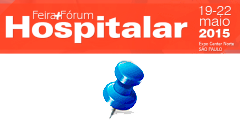
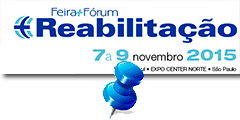
Versão 1.0.1
Incluido formulário de contato

diff --git a/index1.html b/index1.html
@@ -214,12 +214,6 @@ $(window).load(function() {
       <form action="">
       <input type="text" x-webkit-speech>
       </form>
-                  <div id="compassContainer">
-      <div id="imagem">
-          <img src="imagens/logotipo_150.png" id="busca"/>
-      </div>
-      <img src="imagens/busca.png" name="icone" id="icone"/>
-    </div>
     <div id="compassContainer">
       <div id="imagem">
           <img src="imagens/seta-direcao.png" id="compass"/>
@@ -252,12 +246,47 @@ $(window).load(function() {
   <div data-role="footer" data-theme="c">
 <div data-role="navbar">
 		<ul>
-			<li class="ui-btn-active ui-state-persist"><a href="#page" data-icon="grid" class="ui-btn-active">Inicio</a></li>
-			<li><a href="#page3" data-icon="gear">Redes sociais</a></li>
-			<li><a href="http://www.scortecci.com.br/formulario.php?id=304" data-icon="star">Contato</a></li>
+			<li class="ui-btn-active ui-state-persist"><a href="index.html" data-icon="grid" class="ui-btn-active">Inicio</a></li>
+			<li><a href="#page" data-icon="gear">Check-in</a></li>
+			<li><a href="#page1" data-icon="star">Contato</a></li>
 		</ul>
 	</div>
       </div>
   </div>
+<div data-role="page" id="page1">
+  <div data-role="header">
+    <h1>Entre em contato</h1>
+  </div>
+  <div data-role="content">
+  <form action="" method="get">
+    <div data-role="fieldcontain">
+      <label for="textinput">Nome:</label>
+      <input type="text" name="textinput" id="textinput" value="" placeholder="digite seu nome"/>
+    </div>
+    <div data-role="fieldcontain">
+      <label for="textinput2">Empresa:</label>
+      <input type="text" name="textinput2" id="textinput2" value="" placeholder="nome da empresa"/>
+    </div>
+    <div data-role="fieldcontain">
+      <label for="textinput3">Telefone:</label>
+      <input type="tel" name="textinput3" id="textinput3" value="" placeholder="telefone"/>
+    </div>
+    <div data-role="fieldcontain">
+      <label for="textinput4">Data de nascimento:</label>
+      <input type="date" name="textinput4" id="textinput4" value="" placeholder="data de nascimento"/>
+    </div>
+    <a href="#" data-role="button">Enviar</a>
+    
+  </form></div>
+  <div data-role="footer" data-theme="b">
+<div data-role="navbar">
+		<ul>
+			<li class="ui-btn-active ui-state-persist"><a href="index.html" data-icon="grid" class="ui-btn-active" target="_top">Inicio</a></li>
+			<li><a href="#page" data-icon="gear">Check-in</a></li>
+			<li><a href="#page1" data-icon="star">Contato</a></li>
+		</ul>
+	</div>
+      </div>
+</div>
   </body>
 </html>

diff --git a/index.html b/index.html
@@ -31,7 +31,7 @@
 
 <div data-role="page" id="page">
 	<div data-role="header" data-theme="b">
-		<h1>HOSPITALAR 2015</h1>
+		<h1>REABILITAÇÃO 2015</h1>
 	</div>
 	<div data-role="content">	
     <!-- #main-container -->
@@ -97,15 +97,13 @@
 	
 // EndOAWidget_Instance_2187524
           </script>
-          <h3>Hospitalar 2015</h3>
-          <p>            22ª Feira Internacional de Produtos, Equipamentos, Serviços e Tecnologia para Hospitais, Laboratórios, Farmácias, Clínicas e Consultórios.<br>
-            <br>
-            <strong>Data:</strong> 19 a 22 de maio de 2015<br>
-            <br>
-            <strong>Horário:</strong> 12h às 21h<br>
-            <strong><br>
-            </strong> <strong>Local:</strong> Pavilhões do Expo Center Norte<br>
-          Rua José Bernardo Pinto, 333 - Vila Guilherme - São Paulo</p>
+          <h3>REABILITAÇÃO 2015</h3>
+          <p>13ª Feira Internacional de Produtos, Equipamentos, Serviços e Tecnologia para Reabilitação, Prevenção e Inclusão <br>
+            <strong>Data:</strong>7 a 9 de novembro de 2015<br>
+            <strong>Horário:</strong> 10h às 19h <br>
+            <strong>Profissionais do setor:</strong> 10 às 19h<br>
+            <strong>Visitantes:</strong> 14h às 19h<br>
+          <strong>Local:</strong> Pavilhão Azul – Expo Center Norte: Rua José Bernardo Pinto, 333 - Vila Guilherme - São Paulo </p>
 	</div>
 	<div data-role="footer" data-theme="b">
 	<div data-role="navbar">
